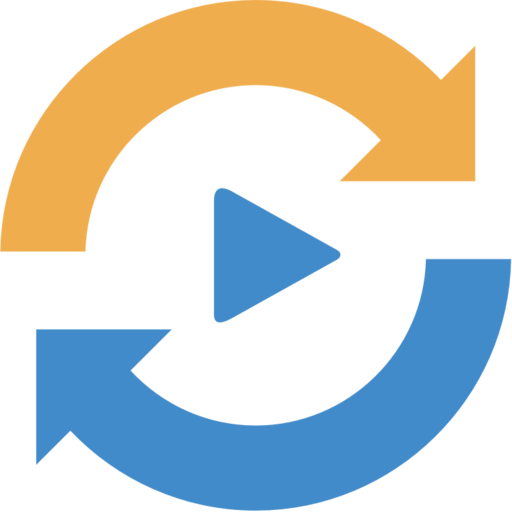
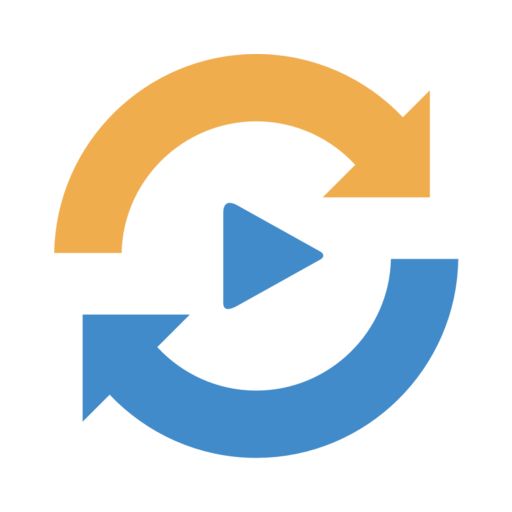
fav test2

diff --git a/src/app/layout.js b/src/app/layout.js
@@ -43,13 +43,14 @@ export default function RootLayout({ children }) {
           name="google-site-verification"
           content="RdxkhXckn9g6Sc2nHYDSF5_Y2fQ3VwWBpEq4ZS_Z2bg"
         />
-        <link rel="apple-touch-icon" sizes="180x180" href="/apple-touch-icon.png" />
-        <link rel="icon" type="image/png" sizes="32x32" href="/favicon-32x32.png" />
-        <link rel="icon" type="image/png" sizes="16x16" href="/favicon-16x16.png" />
-        <link rel="manifest" href="/site.webmanifest" />
-        <link rel="mask-icon" href="/safari-pinned-tab.svg" color="#5bbad5" />
+        <link rel="apple-touch-icon" sizes="180x180" href="/apple-touch-icon.png?v=1" />
+        <link rel="icon" type="image/png" sizes="32x32" href="/favicon-32x32.png?v=1" />
+        <link rel="icon" type="image/png" sizes="16x16" href="/favicon-16x16.png?v=1" />
+        <link rel="manifest" href="/site.webmanifest?v=1" />
+        <link rel="mask-icon" href="/safari-pinned-tab.svg?v=1" color="#5bbad5" />
+        <link rel="shortcut icon" href="/favicon.ico?v=1" />
         <meta name="msapplication-TileColor" content="#da532c" />
-        <meta name="theme-color" content="#ffffff"></meta>
+        <meta name="theme-color" content="#ffffff" />
         {/* <link
           href={"/favImage/apple-touch-icon.png"}
           rel="apple-touch-icon"
